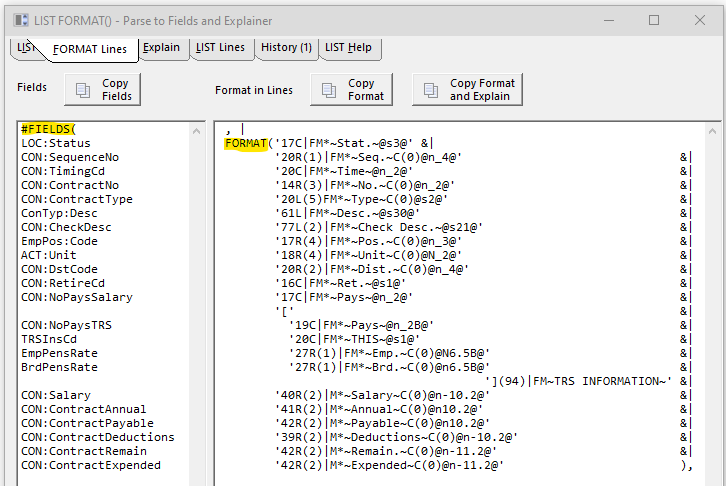
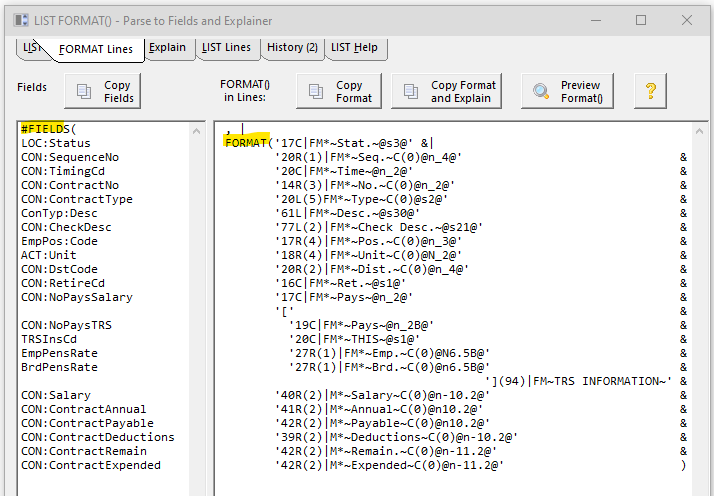
ReadMe on Preview

diff --git a/README.md b/README.md
@@ -32,6 +32,11 @@ The LIST Help tab documents Modifiers and other Properties.
 
 ![list tab](images/readme5.png)
 
+From the "Format Lines" tab you can click the "Preview Format" button to open a Window showing a LIST with that Format().
+   The "Format" button opens my Preview Class LIST view to see the Format as shown below. You can also view all the PROPLIST's for a Column.
+
+![preview](images/readme6.png)
+
 ### Comparison
 
 In Source control comparing a LIST,FORMAT() and #FIELDS() as a multiline block can make it impossible to see the changes. This picture has what are normally left and right stacked viewing the LIST control.
